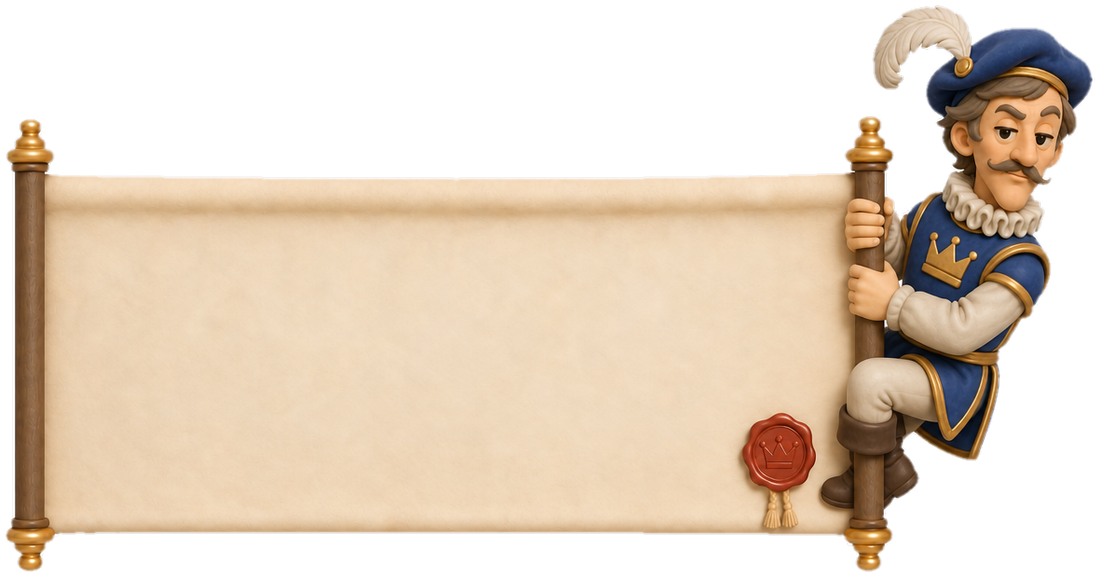
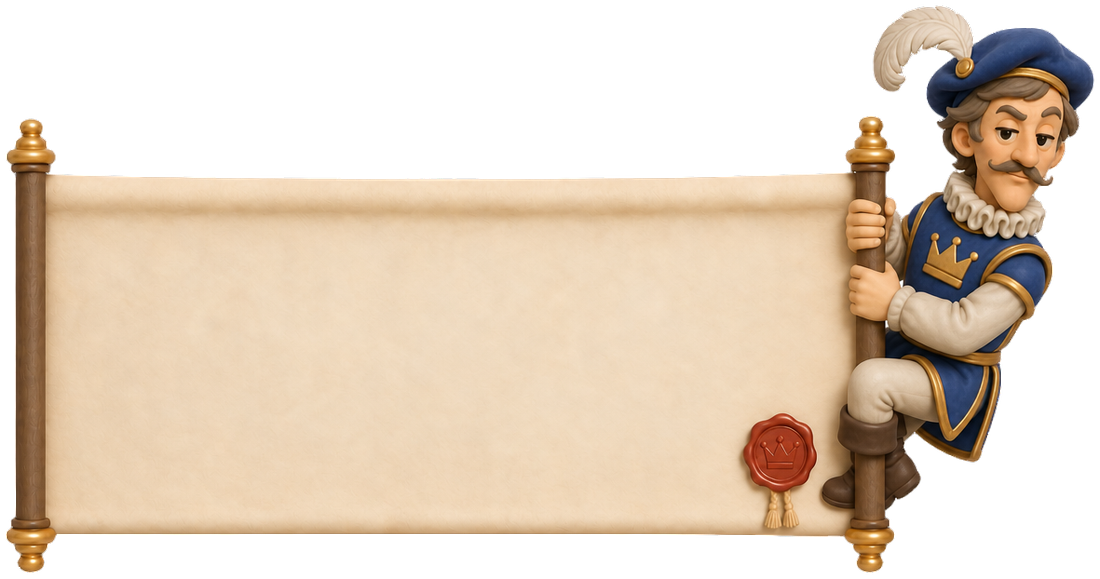
0.31.183: the Herald's white cut away
Kevin: "There is white showing on most of herald images. Go through each one
and make sure all the white cutout is gone". The scroll poses' cut now takes
the Herald from a BiRefNet matte (art_sources/tutorial/poses/matte, 242
credits) and the scroll from what isn't white; edge colours from the nearest
solid pixel; the build fails on white ground left at the edge. ui pack
rebuilt and uploaded. Version 0.31.183 (269).

Claude-Session: https://claude.ai/code/session_01E7g828t3p5DgnGnspyvbqX

diff --git a/godot/tools/build_tutorial_assets.py b/godot/tools/build_tutorial_assets.py
@@ -11,6 +11,7 @@ Sources (art_sources/tutorial, ElevenLabs; README.txt there has the prompts and 
                       sometimes he's laying on top of it and sometimes leaning on it ect") the Herald with his
                       proclamation scroll, eight ways (hold, lying, leaning, sitting, peeking, napping, pointing,
                       hanging), gpt-image-2 / gpt-image-2.5-sunburst, on white
+  poses/matte/<pose>.png  (0.31.183) BiRefNet's matte of the Herald in each (birefnet-v2-bg-removal, its alpha)
 Out:
   assets/vo/tutorial/<id>.ogg   silence trimmed at both ends, loudness-matched (EBU R128 -16 LUFS), mono vorbis 44.1 kHz
                                 (as the Herald's match calls)
@@ -71,22 +72,48 @@ POSES = ["hold", "lying", "leaning", "sitting", "peeking", "napping", "pointing"
 POSE_W = 1100                                 # (the parchment ~900 px of it: the phone's 1080-wide screen, a little under)
 
 
-def cut(rgb):
-    """(rgba) the art cut out of its white ground. The figurine style has no dark outline to stop a flood of near-white:
-    the ground is only the pure white (>= 0.975) reaching the edge, and pure-white pockets bigger than 600 px; the
-    edge pulled in 2 px (no white fringe) and softened."""
+def cut(rgb, matte):
+    """(rgba) the art cut out of its white ground. (0.31.183, Kevin: "There is white showing on most of herald images
+    ... make sure all the white cutout is gone" -- 0.31.182 took only the pure white reaching the edge, and the shaded
+    white between his legs, his arm and the scroll, under the pointer stayed.)
+    The Herald is BiRefNet's matte of him (matte/<pose>.png; it keeps the scroll too, or drops it, as it likes) -- his
+    white bits (plume, ruff, gloves, the teacup) are his. Everything else is what isn't ground: not the pure white
+    (>= 0.975) reaching the edge, and nothing whitish (bright and grey) -- but a pale spot the parchment closes round with
+    no Herald by it is the parchment's. The see-through edge takes the colour of the nearest solid pixel (no white
+    fringe on the dark field)."""
     import scipy.ndimage as nd
     mn = rgb.min(2)
-    lab, n = nd.label(mn >= 0.975)
-    sizes = nd.sum(np.ones_like(mn), lab, range(1, n + 1))
+    sat = rgb.max(2) - mn
+    lab, _ = nd.label(mn >= 0.975)
     edge = set(np.unique(np.concatenate([lab[0], lab[-1], lab[:, 0], lab[:, -1]]))) - {0}
-    pockets = {i + 1 for i, sz in enumerate(sizes) if sz > 600} - edge
-    fg = ~np.isin(lab, list(edge | pockets))
-    fg = nd.binary_erosion(fg, iterations=2)
-    fg = nd.binary_fill_holes(fg) & ~np.isin(lab, list(pockets))
-    alpha = nd.gaussian_filter(fg.astype(np.float64), 1.0)
+    ground = np.isin(lab, list(edge))
+    him = matte > 0.5
+    sc = ~ground & ~((mn > 0.78) & (sat < 0.08))
+    sc = nd.binary_opening(sc, iterations=1)
+    lab, n = nd.label(sc)
+    sizes = nd.sum(sc, lab, range(1, n + 1))
+    sc = np.isin(lab, [i + 1 for i, sz in enumerate(sizes) if sz >= 400])
+    holes, n = nd.label(nd.binary_fill_holes(sc) & ~sc)
+    by_him = nd.binary_dilation(him, iterations=3)
+    sc |= np.isin(holes, [i for i in range(1, n + 1) if not (by_him & (holes == i)).any()])
+    sc = nd.gaussian_filter(nd.binary_erosion(sc, iterations=1).astype(np.float64), 0.8)
+    alpha = np.maximum(np.clip((matte - 0.1) / 0.8, 0.0, 1.0), sc)
     alpha[alpha < 0.03] = 0.0
+    solid = alpha >= 0.95
+    _, (iy, ix) = nd.distance_transform_edt(~solid, return_indices=True)
+    rgb = np.where(solid[..., None], rgb, rgb[iy, ix])
     return np.dstack([rgb, alpha])
+
+
+def white_left(rgba, matte):
+    """the biggest patch of white still showing at the cut's edge that isn't the Herald's own (his plume's and ruff's
+    rims are his): the white ground left between him and the scroll, in px -- a few px at most"""
+    import scipy.ndimage as nd
+    rgb, a = rgba[..., :3], rgba[..., 3]
+    mn = rgb.min(2)
+    lab, n = nd.label((mn > 0.85) & (rgb.max(2) - mn < 0.06) & (a > 0.2) & (matte < 0.5))
+    rim = nd.binary_dilation(a < 0.03, iterations=3)
+    return max([int((lab == i).sum()) for i in range(1, n + 1) if (rim & (lab == i)).any()] or [0])
 
 
 def parchment(rgba):
@@ -138,7 +165,10 @@ def poses():
     out = {}
     for pose in POSES:
         rgb = np.asarray(Image.open(os.path.join(SRC, "poses", pose + ".png")).convert("RGB")).astype(np.float64) / 255.0
-        rgba = cut(rgb)
+        matte = np.asarray(Image.open(os.path.join(SRC, "poses", "matte", pose + ".png")).convert("L")).astype(np.float64) / 255.0
+        rgba = cut(rgb, matte)
+        left = white_left(rgba, matte)
+        assert left <= 30, "%s: %d px of white ground left showing" % (pose, left)
         a = rgba[..., 3]
         ys, xs = np.nonzero(a > 0.06)
         x0, x1, y0, y1 = max(0, xs.min() - 6), min(a.shape[1], xs.max() + 7), max(0, ys.min() - 6), min(a.shape[0], ys.max() + 7)
@@ -149,7 +179,7 @@ def poses():
         p, t = parchment(rgba)
         sc = lambda r: [round(v * k, 1) for v in r]
         out[pose] = {"size": [im.width, im.height], "parch": sc(p), "text": sc(t)}
-        print("%-9s parchment %s  clear %s" % (pose, sc(p), sc(t)))
+        print("%-9s parchment %s  clear %s  white left %d px" % (pose, sc(p), sc(t), left))
     lines = ["extends RefCounted", "# generated by tools/build_tutorial_assets.py (0.31.182) -- don't edit: each pose of the Herald with his",
              "# scroll (assets/ui/tutorial/scroll_<pose>.png): its size, its parchment and the clear part of it for the text, in",
              "# its pixels", "const POSES := {"]

diff --git a/godot/SIEGE_PROGRESS.md b/godot/SIEGE_PROGRESS.md
@@ -5731,3 +5731,19 @@ on top of it and sometimes leaning on it ect".
 - Checks: the quick suite all passed (96, tutorial_test among them); COLD_START_PASS; the Play AAB (throwaway key,
   presets untouched): BASE OK (271 files), CONTENT OK, play_games true, bundletool valid. Preview APK:
   build/Fatebound-Siege-0.31.182-fatebound.apk (32 MB, preview key), sha256 68c8ab38...11776d6f.
+
+## 0.31.183 — the Herald's white cut away
+Kevin: "There is white showing on most of herald images. Go through each one and make sure all the white cutout is gone"
+(the sitting pose up close, the lying one in a match). 0.31.182's cut took only the pure white reaching the image's edge
+(and big pure-white pockets); the shaded white between his legs, between his arm and body, between him and the scroll
+and under the pointer stick (pointing: an 11,000 px triangle) is a little grey, so it stayed.
+- The art: each pose's Herald matted by ElevenLabs' BiRefNet (birefnet-v2-bg-removal, 8 x 30 = 242 credits; its alpha
+  kept, art_sources/tutorial/poses/matte/<pose>.png). It keeps the scroll too in four poses and drops it in the other
+  four, so tools/build_tutorial_assets.py cut() takes the Herald from the matte (his white plume, ruff, gloves and teacup
+  his) and the scroll from what isn't white: nothing whitish (bright, grey) outside him -- a pale spot the parchment
+  closes round with no Herald by it is the parchment's. The see-through edge takes the nearest solid pixel's colour (no
+  white rim on the dark field). The build now fails if a patch of white ground over 30 px is left at the cut's edge
+  (each pose: 2-4 px). The eight rebuilt; the writing's clear rectangles within a few px of before.
+- Looked at: each pose on a dark field at full size, and all eight in a match at 900 x 2000 -- no white.
+- Content packs: ui (31.1 MB) rebuilt and uploaded; check and coverage OK. tutorial_test passes.
+- Version 0.31.183, versionCode 269, SERVER_BUILD 0.31.183 (nothing new for the server).
